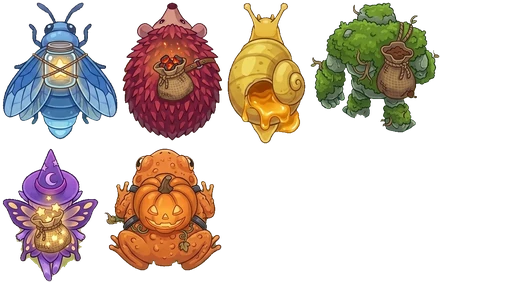
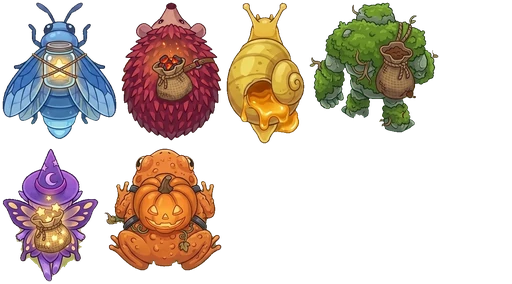
Nouvelles planches de bâtiments : découpe avec fond modélisé, ancrage au sol, symboles d'atelier par couleur
Claude-Session: https://claude.ai/code/session_0133nXGkid8AKJYpSjW4DKPp

Changed region(s): [[0.0, 0.0, 0.875, 0.507]]

diff --git a/js/screens/play.js b/js/screens/play.js
@@ -290,8 +290,11 @@ export function createPlayScreen(game) {
     drawSprite(ctx, assets, key, b.x, y, k);
     const Y = SP.symbol;
     const [bx0, by0, bx1, by1] = spr.body;
-    const sx = b.x + ((bx0 + bx1) / 2 - spr.ax + Y.roof_dx * (bx1 - bx0)) * k;
-    const sy = y + (by0 + Y.roof_y * (by1 - by0) - spr.ay) * k;
+    const work = b.kind !== "house";
+    const roofY = work ? Y.work_roof_y[b.color] : Y.roof_y;
+    const roofDx = work ? Y.work_roof_dx : Y.roof_dx;
+    const sx = b.x + ((bx0 + bx1) / 2 - spr.ax + roofDx * (bx1 - bx0)) * k;
+    const sy = y + (by0 + roofY * (by1 - by0) - spr.ay) * k;
     const pal = cfg.palette[b.color];
     drawSymbol(ctx, Y.shapes[b.color], sx, sy, (b.kind === "house" ? Y.house_r : Y.work_r) * unit, pal ? pal.light : Y.fill, pal ? pal.dark : C.text_dark, Y.outline_w);
     return true;

diff --git a/tools/decoupe_assets.py b/tools/decoupe_assets.py
@@ -1,16 +1,19 @@
 #!/usr/bin/env python3
-"""Découpe des planches Gemini (lot A et B : chaumières, ateliers, créatures, herbe, chemin).
+"""Découpe des planches Gemini (lots A et B : chaumières, ateliers, créatures, herbe, chemin).
 
 Usage : python3 tools/decoupe_assets.py DOSSIER_DES_PLANCHES [DOSSIER_DU_DEPOT]
+
+Le dossier contient planche1.jpg à planche6.jpg (numéros du GDD, section Assets) + herbe.jpg + chemin.jpg.
 
 Produit :
   img/buildings.webp   atlas des 12 bâtiments (6 chaumières, 6 ateliers), fond transparent
   img/creatures.webp   atlas des 6 créatures, fond ET socle d'herbe retirés
-  img/grass.webp       tuile d'herbe sans couture (256 px, dessinée en 2 x 2 miroirs par le jeu)
+  img/grass.webp       tuile d'herbe sans couture (256 px)
   img/path.webp        tuile de chemin sans couture (128 px)
   data/sprites.json    découpe : position de chaque sprite dans l'atlas + point d'ancrage
 
-Les planches sont retrouvées par leur nom de fichier (voir SHEETS). Rien n'est tiré au hasard : le script est déterministe.
+Le fond des planches a un léger dégradé : il est modélisé localement (bg_model), pas par une couleur unique.
+Rien n'est tiré au hasard : le script est déterministe.
 """
 import json
 import os
@@ -24,30 +27,22 @@ COLORS = ["blue", "red", "yellow", "green", "purple", "orange"]
 
 # fichier de planche -> (rôle, couleurs de gauche à droite)
 SHEETS = {
-    "1001964890.jpg": ("house", ["blue", "red", "yellow"]),
-    "1001964895.jpg": ("house", ["green", "purple", "orange"]),
-    "1001964896.jpg": ("work", ["blue", "red", "yellow"]),
-    "1001964897.jpg": ("work", ["green", "purple", "orange"]),
-    "1001964898.jpg": ("crea", ["blue", "red", "yellow"]),
-    "1001964899.jpg": ("crea", ["green", "purple", "orange"]),
+    "planche1.jpg": ("house", ["blue", "red", "yellow"]),
+    "planche2.jpg": ("house", ["green", "purple", "orange"]),
+    "planche3.jpg": ("work", ["blue", "red", "yellow"]),
+    "planche4.jpg": ("work", ["green", "purple", "orange"]),
+    "planche5.jpg": ("crea", ["blue", "red", "yellow"]),
+    "planche6.jpg": ("crea", ["green", "purple", "orange"]),
 }
-GRASS_FILE = "1001964900.jpg"
-PATH_FILE = "1001964901.jpg"
+GRASS_FILE = "herbe.jpg"
+PATH_FILE = "chemin.jpg"
 
-BUILDING_SCALE = 0.5  # planche (px) -> atlas (px) ; 258 px de jardin sur la planche = 129 px
+ANCHOR_UP = 0.58  # hauteur du point d'ancrage au-dessus du bas du bâtiment, en largeur du corps
+BUILDING_SCALE = 0.4  # planche (px) -> atlas (px) ; environ 380 px de jardin sur la planche = 152 px
 CREATURE_SCALE = 0.40
 PAD = 12  # marge ajoutée autour d'un sprite pendant le calcul
 GAP = 4  # espace entre sprites dans l'atlas
 
-# Hauteur (dans la planche) du haut de la cheminée : au-dessus, la fumée est translucide et garde un alpha doux.
-# Bâtiments sans cheminée : None.
-SMOKE_Y = {
-    ("house", "blue"): 252, ("house", "red"): 250, ("house", "yellow"): 256,
-    ("house", "green"): 252, ("house", "purple"): 250, ("house", "orange"): 256,
-    ("work", "blue"): 252, ("work", "red"): 248, ("work", "yellow"): 256,
-}
-SMOKE_D = 82.0  # distance au fond du cœur de la fumée (mesurée : 80 à 83 au 99e centile)
-SMOKE_ALPHA = 0.85
 # Zone de la planche où la croûte d'herbe de la créature peut être retirée par la couleur (le golem a de la mousse
 # partout : on borne le retrait au socle). (x0, y0, x1, y1) en pixels de planche, None = partout.
 PATCH_ZONE = {"green": (150, 300, 415, 535)}
@@ -57,9 +52,22 @@ def load(path):
     return np.array(Image.open(path).convert("RGB")).astype(np.float32)
 
 
-def find_sprites(im):
+def bg_model(im):
+    """Fond de la planche, pixel par pixel : moyenne locale des pixels de fond (le fond a un dégradé de 20 niveaux)."""
+    med = np.median(np.concatenate([im[:20].reshape(-1, 3), im[-20:].reshape(-1, 3)]), axis=0)
+    mask = np.sqrt(((im - med) ** 2).sum(2)) < 45
+    bg = np.empty_like(im)
+    for _ in range(3):
+        w = ndi.gaussian_filter(mask.astype(np.float32), 40)
+        for c in range(3):
+            bg[..., c] = ndi.gaussian_filter(im[..., c] * mask, 40) / np.maximum(w, 1e-3)
+        bg[w < 0.02] = med  # loin de tout fond (cœur d'un sprite) : sans importance
+        mask = np.sqrt(((im - bg) ** 2).sum(2)) < 24
+    return bg
+
+
+def find_sprites(im, bg):
     """3 sprites par planche, de gauche à droite : boîtes (x0, y0, x1, y1)."""
-    bg = np.median(np.concatenate([im[:20].reshape(-1, 3), im[-20:].reshape(-1, 3)]), axis=0)
     d = np.sqrt(((im - bg) ** 2).sum(2))
     fg = ndi.binary_opening(ndi.binary_closing(d > 28, iterations=6), iterations=2)
     lab, n = ndi.label(fg)
@@ -70,19 +78,16 @@ def find_sprites(im):
             boxes.append((o[1].start, o[0].start, o[1].stop, o[0].stop))
     boxes.sort()
     assert len(boxes) == 3, f"3 sprites attendus, {len(boxes)} trouvés"
-    return boxes, bg
+    return boxes
 
 
-def padded_crop(im, box, bg, grow=8):
-    """Découpe élargie de `grow` px (le fond de la planche entoure chaque sprite) + marge de fond uni."""
+def padded_crop(im, bgm, box, grow=8):
+    """Découpe élargie de `grow` px (le fond de la planche entoure chaque sprite) + marge de fond (modèle de fond)."""
     x0, y0, x1, y1 = box
     x0, y0 = max(0, x0 - grow), max(0, y0 - grow)
     x1, y1 = min(im.shape[1], x1 + grow), min(im.shape[0], y1 + grow)
-    crop = im[y0:y1, x0:x1]
-    out = np.empty((crop.shape[0] + 2 * PAD, crop.shape[1] + 2 * PAD, 3), np.float32)
-    out[:] = bg
-    out[PAD:-PAD, PAD:-PAD] = crop
-    return out, x0, y0
+    pad = ((PAD, PAD), (PAD, PAD), (0, 0))
+    return np.pad(im[y0:y1, x0:x1], pad, mode="edge"), np.pad(bgm[y0:y1, x0:x1], pad, mode="edge"), x0, y0
 
 
 def flood_from_border(passable):
@@ -114,42 +119,18 @@ def to_rgba(rgb, alpha):
     return Image.fromarray(out, "RGBA")
 
 
-def cut_building(im, box, bg, smoke_y):
-    crop, x0, y0 = padded_crop(im, box, bg)
+def cut_building(im, bgm, box):
+    """Fond retiré par remplissage depuis les bords : ce qui est enfermé par un contour (intérieur d'un nuage de fumée,
+    verre d'une serre) reste opaque, ce qui touche le bord de la planche part."""
+    crop, bg, x0, y0 = padded_crop(im, bgm, box)
     d = np.sqrt(((crop - bg) ** 2).sum(2))
-    removed = flood_from_border(d < 30)
-    fg = ~removed
-    # liseré pâle collé au fond (reflet de la planche sous le jardin) : pixels clairs et peu colorés à moins de 5 px du fond
-    mx, mn = crop.max(2), crop.min(2)
-    sat = (mx - mn) / np.maximum(mx, 1)
-    luma = 0.3 * crop[..., 0] + 0.59 * crop[..., 1] + 0.11 * crop[..., 2]
-    pale = ndi.binary_dilation(removed, iterations=5) & (luma > 170) & (sat < 0.30)
-    fg &= ~pale
+    fg = ~flood_from_border(d < 22)
     fg = ndi.binary_erosion(fg, iterations=1)  # le liseré clair du fond disparaît
-    alpha = soft(fg)
-    rgb = crop.copy()
-    if smoke_y is not None:
-        band = np.zeros(d.shape, bool)
-        band[: smoke_y - y0 + PAD, :] = True
-        a_soft = np.clip((d - 6.0) / (SMOKE_D - 6.0), 0, 1)
-        # la fumée est translucide : on retrouve sa couleur pleine et on garde l'alpha doux
-        unp = bg + (crop - bg) / np.maximum(a_soft, 1e-3)[..., None]
-        use = band & (a_soft < 1)
-        rgb[use] = unp[use]
-        alpha = np.where(use, a_soft * SMOKE_ALPHA, alpha)
-        # on ne garde que ce qui touche le bâtiment (pas de poussière isolée)
-        lab, _ = ndi.label(alpha > 0.04)
-        solid = alpha > 0.9
-        if solid.any():
-            main = np.bincount(lab[solid]).argmax()
-            alpha = np.where(lab == main, alpha, 0)
-    return rgb, np.clip(alpha, 0, 1)
+    return crop, soft(fg)
 
 
-def cut_creature(im, box, bg, color, offset):
-    crop, x0, y0 = padded_crop(im, box, bg)
-    y1 = y0 + crop.shape[0] - 2 * PAD
-    x1 = x0 + crop.shape[1] - 2 * PAD
+def cut_creature(im, bgm, box, color):
+    crop, bg, x0, y0 = padded_crop(im, bgm, box)
     r, g, b = crop[..., 0], crop[..., 1], crop[..., 2]
     mx, mn = crop.max(2), crop.min(2)
     sat = (mx - mn) / np.maximum(mx, 1)
@@ -242,23 +223,26 @@ def main():
     meta = {}
     for fname, (role, cols) in SHEETS.items():
         im = load(os.path.join(src, fname))
-        boxes, bg = find_sprites(im)
-        for i, (box, color) in enumerate(zip(boxes, cols)):
+        bgm = bg_model(im)
+        boxes = find_sprites(im, bgm)
+        for box, color in zip(boxes, cols):
             if role == "crea":
-                rgb, alpha = cut_creature(im, box, bg, color, i)
+                rgb, alpha = cut_creature(im, bgm, box, color)
                 scale, atlas = CREATURE_SCALE, "creatures"
             else:
-                rgb, alpha = cut_building(im, box, bg, SMOKE_Y.get((role, color)))
+                rgb, alpha = cut_building(im, bgm, box)
                 scale, atlas = BUILDING_SCALE, "buildings"
             bx0, by0, bx1, by1 = body_box(rgb, alpha)
             full = to_rgba(rgb, alpha)
             trimmed, tb = trim(full)
-            # ancrage : centre du corps du bâtiment (sans la fumée) ; centre de la créature (pivot de rotation)
+            # ancrage : centre au sol du bâtiment ; centre de la créature (pivot de rotation)
             if role == "crea":
                 cx, cy = (tb[0] + tb[2]) / 2 - tb[0], (tb[1] + tb[3]) / 2 - tb[1]
                 body = (0, 0, trimmed.width, trimmed.height)
             else:
-                cx, cy = (bx0 + bx1) / 2 - tb[0], (by0 + by1) / 2 - tb[1]
+                # centre au sol : milieu du corps en largeur, bas du corps moins ANCHOR_UP fois sa largeur
+                # (la hauteur des bâtiments varie beaucoup avec la fumée, le sol non)
+                cx, cy = (bx0 + bx1) / 2 - tb[0], by1 - ANCHOR_UP * (bx1 - bx0) - tb[1]
                 body = (bx0 - tb[0], by0 - tb[1], bx1 - tb[0], by1 - tb[1])
             small = trimmed.resize((max(1, round(trimmed.width * scale)), max(1, round(trimmed.height * scale))), Image.LANCZOS)
             key = f"{role}.{color}"

diff --git a/docs/ETAT.md b/docs/ETAT.md
@@ -115,6 +115,13 @@ Autres changements, identifiants liés au nom :
 
 Sections `game` (version), `world` (dimensions du GDD), `loop` (`sim_hz` 30, `max_fps` 60, `fps_tolerance_ms` 2, `max_frame_ms` 250), `display` (`dpr_max` 2) et `ui` (couleurs, tailles et réglages de l'écran titre, tous provisoires en attendant les images). Les textes sont dans `lang/`. Boutons de 240 × 140 en monde logique (environ 51 px à l'écran sur un téléphone de 393 px de large, au-dessus des 48 px du GDD).
 
+## Nouvelles planches de bâtiments (28 oct. 2026)
+
+- Nicolas a renvoyé 4 planches (chaumières bleue/rouge/jaune, verte/violette/orange ; ateliers lanterne, forge, ruche, serre, observatoire, chaudron). `tools/decoupe_assets.py` relancé (dossier de planches : `planche1.jpg` à `planche6.jpg`, `herbe.jpg`, `chemin.jpg`) ; `img/buildings.webp` et `data/sprites.json` régénérés (créatures et textures inchangées).
+- Script : le fond des planches a un dégradé, il est maintenant modélisé localement (`bg_model`) ; la fumée est une nuée opaque cernée de noir, donc plus de bande de fumée à alpha doux (`SMOKE_Y` supprimé) ni de filtre « pâle » ; le fond est retiré par remplissage depuis les bords (le verre de la serre et l'intérieur des nuages restent). `BUILDING_SCALE` 0,4 (jardin d'environ 160 px dans l'atlas). Ancrage : milieu du corps en largeur, au sol (bas du corps moins `ANCHOR_UP` 0,58 fois la largeur), car la hauteur varie beaucoup avec la fumée et les étincelles.
+- Jeu : une seule échelle pour les deux types (`building_w_units` 1,15 : les socles d'ateliers ont la même emprise que les jardins). Nouveau dans `ui.play.sprites.symbol` : `work_roof_y` (position verticale du symbole par couleur d'atelier, fraction du corps) et `work_roof_dx` 0. Atelier orange (fumée noire) et rouge (étincelles) plus hauts à l'écran : normal.
+- Reste à regarder en vrai : le chevauchement d'un atelier haut sur la ligne du dessus.
+
 ## Valeurs ajoutées dans `data/balance.json` (I1 et I2)
 
 `ui.play.sprites` (nouveau) : `building_w_units` 1,15 (largeur du jardin en cases de bâtiment, soit 124 px), `building_dy` 0, `creature_h` 50, `turn_ease` 0,3, `wobble_deg` 5, `bob` 0,04, `stride_px` 44, `shadow_alpha` 1, `grass_tile_px` 256, `grass_mirror` faux (vrai : tuile posée en 2 × 2 miroirs, donne un motif en losange trop visible), `path_tile_px` 102, et `symbol` : `house_r` et `work_r` 0,125, `roof_y` 0,36 et `roof_dx` -0,04 (position sur le toit, en fraction du corps du bâtiment), `creature_r` 0,14, `creature_dy` 0,2, `fill` crème (repli), `outline_w` 4, `shapes` (couleur -> forme). `data/sprites.json` (généré) : atlas, position, ancrage et boîte du corps de chaque sprite, `ref_house_w` (largeur de référence d'un jardin de chaumière). `game.version` 0.5.1. Inchangés mais devenus inutiles quand l'image est là : `ui.play.grass`, `ui.play.creature.radius` (sert encore au repli et à l'échelle de l'ombre).
@@ -170,6 +177,13 @@ Sections `game` (version), `world` (dimensions du GDD), `loop` (`sim_hz` 30, `ma
 ## Prochaine conversation du plan
 
 **C6 : cadeaux** (I1 et I2 sont faites). Pas de refonte du trafic pour l'instant (voir « Reste à faire »). Lire `docs/ETAT.md` et les fichiers `docs/gdd/` cités dans le prompt.
+
+## À tester sur le téléphone (nouvelles planches)
+
+1. Recharge sans cache `https://keismey.github.io/Pre-Lune/` : chaumière et atelier bleus (la lanterne) bien différents l'un de l'autre.
+2. À mesure que les couleurs arrivent, vérifie que tu distingues du premier coup d'œil chaumière et atelier de même couleur, et que le symbole sur le toit reste lisible (surtout serre verte et ruche jaune).
+3. Regarde les ateliers hauts (forge rouge avec ses étincelles, chaudron orange avec sa fumée noire) : gênent-ils le bâtiment ou le tracé au-dessus ?
+4. Les créatures passent toujours devant ou derrière selon le côté d'où elles arrivent.
 
 ## À tester sur le téléphone (I1 et I2)
 
